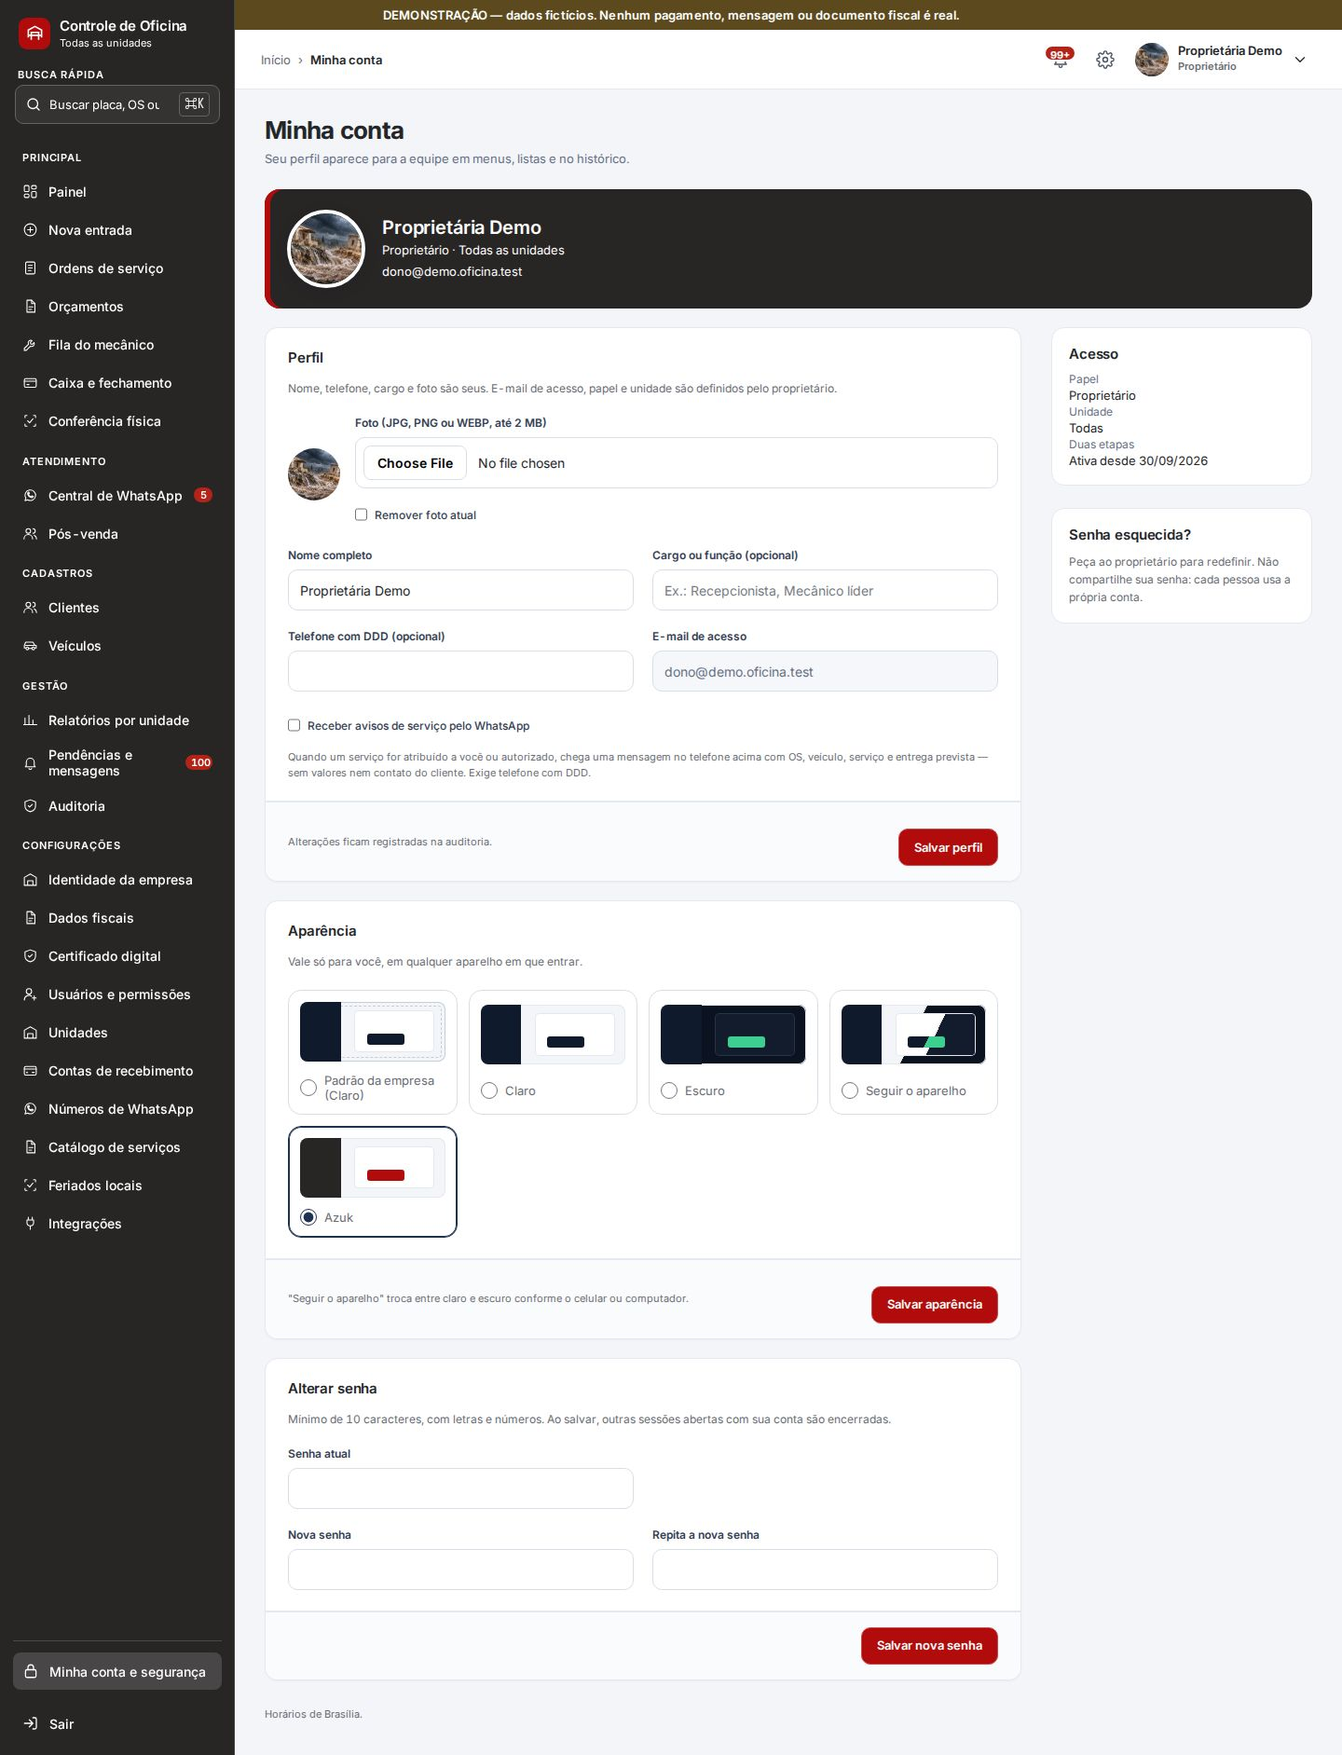
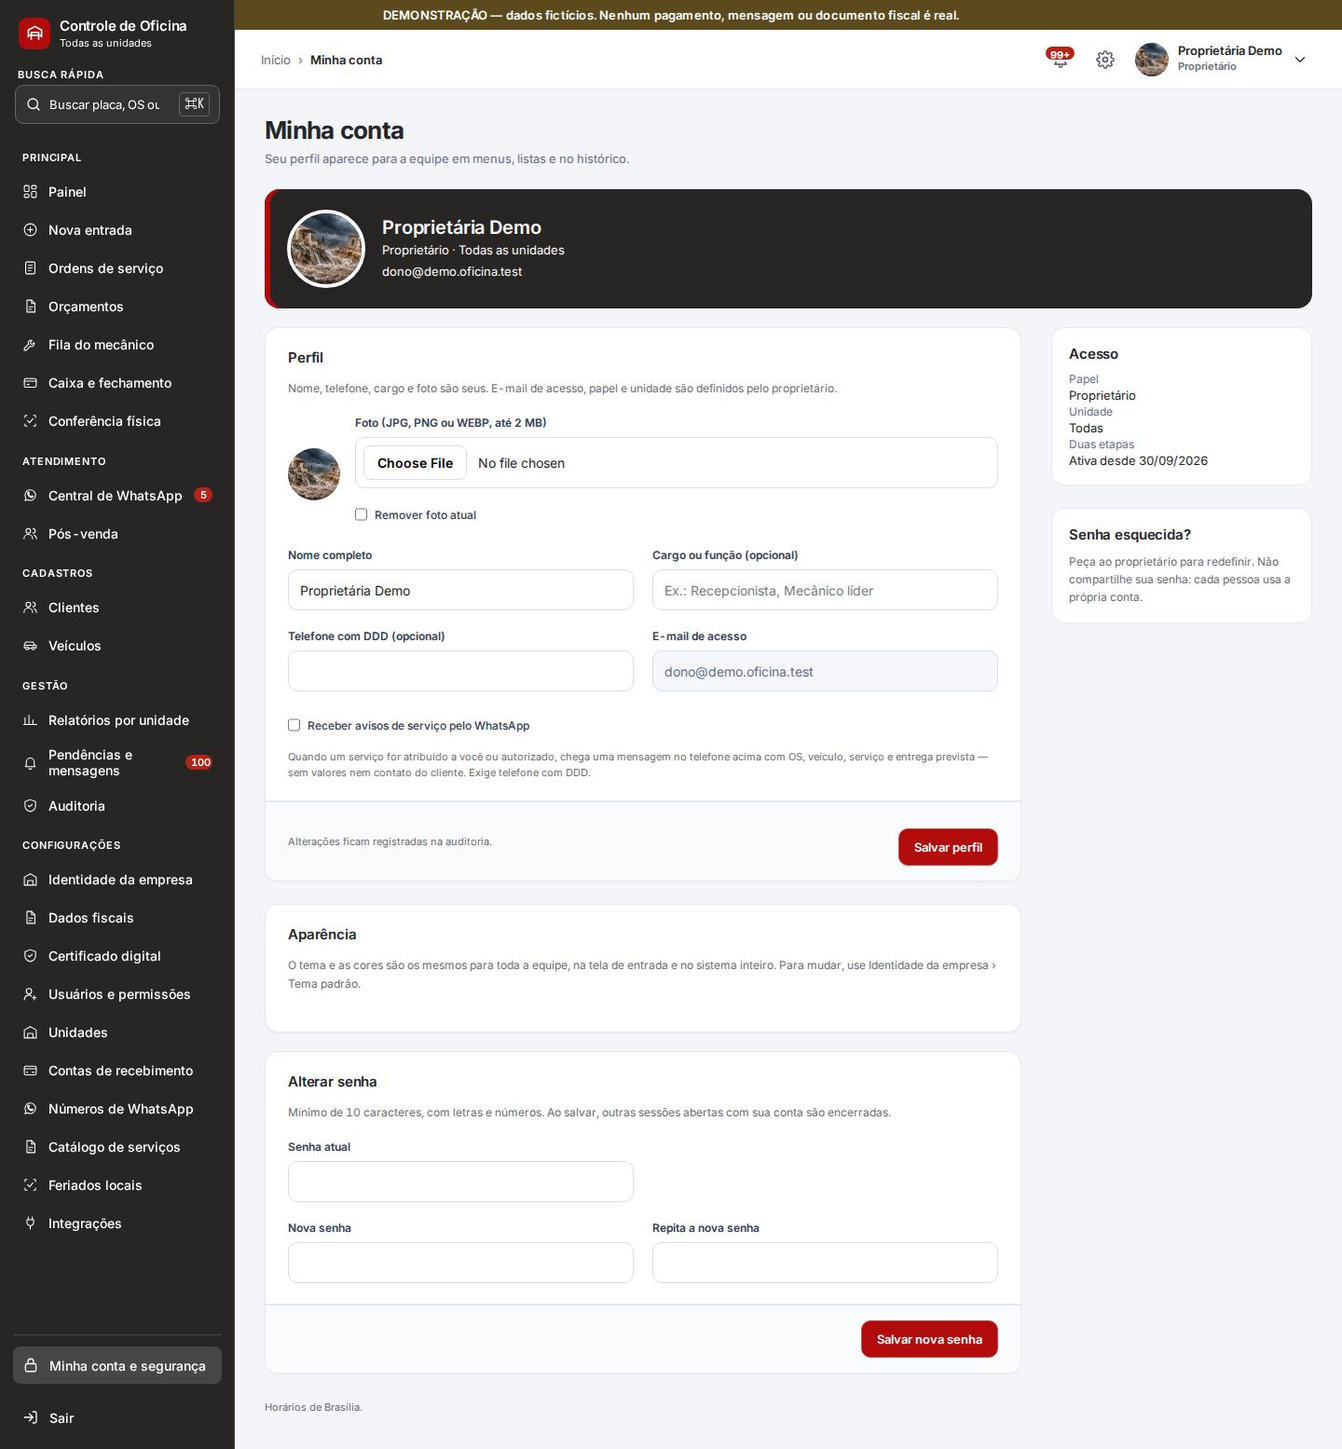
Tema único da empresa na entrada, no sistema e no link do cliente

diff --git a/app/resources/css/app.css b/app/resources/css/app.css
@@ -709,6 +709,12 @@ body.app{--roxo:var(--t-roxo-grafico,#1d3150)}
   --nav-indicador:var(--menu-texto);--nav-icone-ativo:var(--menu-texto);--nav-foco:var(--menu-texto);
   --t-sombra-menu:inset -1px 0 0 color-mix(in srgb,var(--menu-texto) 14%,var(--menu-fundo));
 }
+/* Tela de entrada com o tema da empresa (12/11/2026): o painel lateral usa a cor do menu, como dentro do sistema. */
+:root[style*="--menu-fundo"] .guest-marca{background:var(--menu-fundo);color:var(--menu-texto)}
+:root[style*="--menu-fundo"] .guest-titulo{color:var(--menu-texto)}
+:root[style*="--menu-fundo"] .guest-marca li:before{background:var(--marca)}
+:root[style*="--menu-fundo"] .portal-topo{background:var(--menu-fundo);color:var(--menu-texto)}
+:root[style*="--menu-fundo"] .portal-topo small{color:var(--menu-texto);opacity:.8}
 /* Botão primário com a cor da marca: hover sem mexer no contraste (anel interno com a cor do texto). */
 :root[style*="--marca"]{--primario-hover:var(--marca);--primario-borda:color-mix(in srgb,var(--marca) 75%,var(--marca-contraste))}
 body.app .sidebar{background:var(--nav-bg);color:var(--nav-ink);box-shadow:var(--t-sombra-menu,none)}

diff --git a/app/tests/Feature/AparenciaTest.php b/app/tests/Feature/AparenciaTest.php
@@ -42,24 +42,40 @@ class AparenciaTest extends TestCase
             'cep' => '70.040-010', 'logradouro' => 'Rua das Rodas', 'numero' => '17', 'bairro' => 'Asa Sul', 'cidade' => 'Brasília', 'uf' => 'df'];
     }
 
-    public function test_padrao_e_claro_e_usuario_escolhe_escuro_ou_sistema(): void
+    /** 12/11/2026: tema único da empresa — o mesmo na entrada, para todos os papéis e no link do cliente; sem escolha pessoal. */
+    public function test_tema_da_empresa_vale_para_todos_e_nao_ha_tema_pessoal(): void
     {
-        $this->entrarComo($this->recepcao)->get(route('conta'))->assertOk()->assertSee('data-tema="claro"', false)->assertSee('Seguir o aparelho');
+        $this->entrarComo($this->recepcao)->get(route('conta'))->assertOk()->assertSee('data-tema="claro"', false)->assertSee('Quem escolhe é o dono')
+            ->assertDontSee('Salvar aparência');
+        $this->assertFalse(\Illuminate\Support\Facades\Route::has('conta.tema'));
 
-        foreach (['escuro', 'sistema'] as $tema) {
-            $this->entrarComo($this->recepcao)->put(route('conta.tema'), ['tema' => $tema])->assertSessionHasNoErrors();
-            $this->assertSame($tema, $this->recepcao->fresh()->tema);
-            $this->entrarComo($this->recepcao->fresh())->get(route('conta'))->assertSee('data-tema="'.$tema.'"', false);
+        $this->entrarComo($this->dono)->put(route('empresa.update'), $this->empresa(['tema_padrao' => 'escuro']))->assertSessionHasNoErrors();
+        foreach ([$this->dono, $this->recepcao, $this->mecanico] as $u) {
+            $this->entrarComo($u)->get(route('conta'))->assertSee('data-tema="escuro"', false);
         }
-        $this->assertSame(2, AuditEvent::where('acao', 'tema_usuario_alterado')->count());
-
-        // Mecânico também escolhe o próprio tema; valor fora da lista é recusado e o banco também barra.
-        $this->entrarComo($this->mecanico)->put(route('conta.tema'), ['tema' => 'escuro'])->assertSessionHasNoErrors();
-        $this->entrarComo($this->mecanico)->put(route('conta.tema'), ['tema' => 'rosa'])->assertSessionHasErrors('tema');
-        $this->entrarComo($this->mecanico)->put(route('conta.tema'), ['tema' => 'tema:999'])->assertSessionHasErrors('tema');
-        $this->assertSame('escuro', $this->mecanico->fresh()->tema);
+        // Coluna antiga preenchida não muda mais nada.
+        $this->recepcao->forceFill(['tema' => 'claro'])->save();
+        $this->entrarComo($this->recepcao->fresh())->get(route('conta'))->assertSee('data-tema="escuro"', false);
+        $this->entrarComo($this->dono)->get(route('conta'))->assertSee('Identidade da empresa › Tema padrão');
         $this->expectException(QueryException::class);
         DB::table('users')->where('id', $this->mecanico->id)->update(['tema' => 'qualquer"><script>']);
+    }
+
+    public function test_migracao_leva_o_tema_pessoal_do_dono_para_a_empresa(): void
+    {
+        $this->entrarComo($this->dono)->post(route('temas.store'), $this->tema())->assertSessionHasNoErrors();
+        $tema = Tema::sole();
+        Empresa::atual()->forceFill(['tema_padrao' => null])->save();
+        $this->dono->forceFill(['tema' => $tema->chave()])->save();
+        $this->recepcao->forceFill(['tema' => 'escuro'])->save();
+
+        (require database_path('migrations/2026_11_12_000200_tema_unico_da_empresa.php'))->up();
+
+        $this->assertSame($tema->chave(), Empresa::atual()->fresh()->tema_padrao);
+        $this->assertSame(0, User::whereNotNull('tema')->count());
+        auth()->logout();
+        $this->flushSession();
+        $this->get(route('login'))->assertSee('--marca:#ffd400', false);
     }
 
     public function test_somente_proprietario_cria_tema_e_cores_vao_com_texto_legivel(): void
@@ -78,8 +94,8 @@ class AparenciaTest extends TestCase
         $this->assertSame(['escuro', '#ffd400', '#000000'], [$tema->base, $tema->cor_marca, $tema->cor_menu]);
         $this->assertSame(1, AuditEvent::where('acao', 'tema_criado')->count());
 
-        $this->entrarComo($this->recepcao)->put(route('conta.tema'), ['tema' => $tema->chave()])->assertSessionHasNoErrors();
-        $this->entrarComo($this->recepcao->fresh())->get(route('conta'))->assertOk()
+        $this->entrarComo($this->dono)->put(route('empresa.update'), $this->empresa(['tema_padrao' => $tema->chave()]))->assertSessionHasNoErrors();
+        $this->entrarComo($this->recepcao)->get(route('conta'))->assertOk()
             ->assertSee('data-tema="escuro"', false)
             // amarelo pede texto escuro; preto pede texto branco
             ->assertSee('--marca:#ffd400;--marca-contraste:#000000;--menu-fundo:#000000;--menu-texto:#ffffff', false);
@@ -89,21 +105,18 @@ class AparenciaTest extends TestCase
         $this->entrarComo($this->recepcao)->delete(route('temas.destroy', $tema))->assertForbidden();
     }
 
-    public function test_excluir_tema_devolve_usuarios_e_empresa_ao_padrao(): void
+    public function test_excluir_tema_devolve_a_empresa_ao_padrao(): void
     {
         $this->entrarComo($this->dono)->post(route('temas.store'), $this->tema())->assertSessionHasNoErrors();
         $tema = Tema::sole();
         $this->entrarComo($this->dono)->put(route('empresa.update'), $this->empresa(['tema_padrao' => $tema->chave()]))->assertSessionHasNoErrors();
-        $this->recepcao->forceFill(['tema' => $tema->chave()])->save();
 
-        // Usuário sem escolha segue o padrão da empresa.
         $this->entrarComo($this->mecanico)->get(route('conta'))->assertSee('data-tema="escuro"', false)->assertSee('--menu-fundo:#000000', false);
 
         $this->entrarComo($this->dono)->delete(route('temas.destroy', $tema))->assertSessionHasNoErrors();
-        $this->assertNull($this->recepcao->fresh()->tema);
         $this->assertNull(Empresa::atual()->tema_padrao);
         $this->assertSame(1, AuditEvent::where('acao', 'tema_excluido')->count());
-        $this->entrarComo($this->recepcao->fresh())->get(route('conta'))->assertSee('data-tema="claro"', false)->assertDontSee('--menu-fundo:', false);
+        $this->entrarComo($this->recepcao)->get(route('conta'))->assertSee('data-tema="claro"', false)->assertDontSee('--menu-fundo:', false);
     }
 
     public function test_tema_padrao_da_empresa_vale_na_tela_de_entrada(): void

diff --git a/app/resources/views/conta/show.blade.php b/app/resources/views/conta/show.blade.php
@@ -37,30 +37,13 @@
                 <div class="form-footer"><span class="hint">Alterações ficam registradas na auditoria.</span><button class="button primary" type="submit">Salvar perfil</button></div>
             </form>
 
-            @php($empresaAtual = \App\Models\Empresa::atual())
-            @php($padraoEmpresa = \App\Support\Aparencia::opcoes()[$empresaAtual->tema_padrao ?? 'claro'] ?? 'Claro')
-            <form method="POST" action="{{ route('conta.tema') }}" class="form-panel" id="aparencia" style="margin-bottom:20px">
-                @csrf @method('PUT')
+            <section class="form-panel" id="aparencia" style="margin-bottom:20px">
                 <section class="form-section">
                     <h2>Aparência</h2>
-                    <p class="section-copy">Vale só para você, em qualquer aparelho em que entrar.</p>
-                    <fieldset class="tema-opcoes">
-                        <legend class="sr-only">Tema</legend>
-                        @foreach (['' => 'Padrão da empresa ('.$padraoEmpresa.')'] + \App\Support\Aparencia::opcoes() as $valor => $nome)
-                            {{-- "Padrão da empresa" mostra a miniatura do tema que a empresa usa de fato. --}}
-                            @php($chaveAmostra = $valor ?: ($empresaAtual->tema_padrao ?? 'claro'))
-                            @php($temaCustom = str_starts_with($chaveAmostra, 'tema:') ? \App\Models\Tema::find((int) substr($chaveAmostra, 5)) : null)
-                            <label class="tema-opcao">
-                                <input type="radio" name="tema" value="{{ $valor }}" @checked((string) old('tema', $usuario->tema) === (string) $valor)>
-                                <span class="tema-amostra tema-amostra-{{ $temaCustom?->base ?? (isset(\App\Support\Aparencia::PADROES[$chaveAmostra]) ? $chaveAmostra : 'claro') }}{{ $valor === '' ? ' tema-amostra-padrao' : '' }}" @if ($temaCustom) style="--amostra-menu:{{ $temaCustom->cor_menu }};--amostra-marca:{{ $temaCustom->cor_marca }}" @endif aria-hidden="true"><i></i><b></b></span>
-                                <span>{{ $nome }}</span>
-                            </label>
-                        @endforeach
-                    </fieldset>
-                    @error('tema')<span class="field-error">{{ $message }}</span>@enderror
+                    <p class="section-copy">O tema e as cores são os mesmos para toda a equipe, na tela de entrada e no sistema inteiro.
+                        @can('configurar') Para mudar, use <a href="{{ route('empresa.edit') }}">Identidade da empresa › Tema padrão</a>.@else Quem escolhe é o dono.@endcan</p>
                 </section>
-                <div class="form-footer"><span class="hint">"Seguir o aparelho" troca entre claro e escuro conforme o celular ou computador.</span><button class="button primary" type="submit">Salvar aparência</button></div>
-            </form>
+            </section>
 
             <form method="POST" action="{{ route('conta.senha') }}" class="form-panel" id="senha">
                 @csrf @method('PUT')

diff --git a/app/app/Support/Aparencia.php b/app/app/Support/Aparencia.php
@@ -4,10 +4,9 @@ namespace App\Support;
 
 use App\Models\Empresa;
 use App\Models\Tema;
-use App\Models\User;
 
 /**
- * Resolve o tema da tela: escolha do usuário > padrão da empresa > claro.
+ * Tema único da empresa (12/11/2026, pedido do dono): o mesmo na entrada, no sistema todo e no link do cliente; sem escolha pessoal.
  * Saída vai para <html data-tema="claro|escuro|sistema" style="--marca…">; as cores do tema personalizado
  * vêm com a cor de texto calculada (preto ou branco, o de maior contraste WCAG) para nunca ficar ilegível.
  */
@@ -16,16 +15,11 @@ final class Aparencia
     public const PADROES = ['claro' => 'Claro', 'escuro' => 'Escuro', 'sistema' => 'Seguir o aparelho'];
 
     /** @return array{modo: string, estilo: string, chave: string} */
-    public static function resolver(?User $usuario = null, ?Empresa $empresa = null): array
+    public static function resolver(?Empresa $empresa = null): array
     {
-        $empresa ??= Empresa::atual();
-        foreach ([$usuario?->tema, $empresa->tema_padrao] as $chave) {
-            if ($chave && ($r = self::deChave($chave))) {
-                return $r;
-            }
-        }
+        $chave = ($empresa ?? Empresa::atual())->tema_padrao;
 
-        return ['modo' => 'claro', 'estilo' => '', 'chave' => 'claro'];
+        return ($chave ? self::deChave($chave) : null) ?? ['modo' => 'claro', 'estilo' => '', 'chave' => 'claro'];
     }
 
     /** Opções válidas para os seletores (padrões + personalizados). @return array<string, string> */

diff --git a/app/routes/web.php b/app/routes/web.php
@@ -207,13 +207,12 @@ Route::middleware(['auth', 'dois-fatores'])->group(function () {
         Route::post('/', 'store')->name('certificado.store');
         Route::delete('/', 'destroy')->name('certificado.destroy');
     });
-    // Aparência (31/10/2026): temas personalizados só pelo proprietário; cada usuário escolhe o próprio tema.
+    // Aparência: temas personalizados só pelo proprietário; o tema padrão da empresa vale para todos (12/11/2026).
     Route::middleware(['can:configurar', 'password.confirm', 'throttle:30,1'])->prefix('configuracoes/temas')->controller(\App\Http\Controllers\TemaController::class)->group(function () {
         Route::post('/', 'store')->name('temas.store');
         Route::put('/{tema}', 'update')->name('temas.update');
         Route::delete('/{tema}', 'destroy')->name('temas.destroy');
     });
-    Route::put('/conta/tema', [\App\Http\Controllers\ContaController::class, 'tema'])->middleware('throttle:30,1')->name('conta.tema');
     Route::put('/ordens/{ordem}/chassi', [\App\Http\Controllers\VeiculoController::class, 'chassi'])->middleware('throttle:30,1')->name('ordens.chassi');
     Route::post('/ordens/{ordem}/vendedor', [\App\Http\Controllers\OsImpressaController::class, 'vendedor'])->middleware('throttle:30,1')->name('ordens.vendedor');
     Route::get('/ordens/{ordem}/impressao', [\App\Http\Controllers\OsImpressaController::class, 'interna'])->middleware('throttle:60,1')->name('ordens.impressao');

diff --git a/app/app/Http/Controllers/ContaController.php b/app/app/Http/Controllers/ContaController.php
@@ -8,9 +8,7 @@ use Illuminate\Support\Facades\Auth;
 use Illuminate\Support\Facades\Hash;
 use Illuminate\Support\Facades\Storage;
 use App\Models\User;
-use App\Support\Aparencia;
 use App\Support\Normaliza;
-use Illuminate\Validation\Rule;
 use Illuminate\Validation\Rules\Password;
 use Illuminate\Validation\ValidationException;
 
@@ -53,18 +51,6 @@ class ContaController extends Controller
         Auditoria::registrar('perfil_alterado', $user, $antes, $user->only('name', 'telefone', 'cargo', 'receber_avisos_whatsapp') + ['foto' => (bool) $user->foto_caminho], ator: $user);
 
         return redirect()->route('conta')->with('sucesso', 'Perfil atualizado.');
-    }
-
-    /** Tema do próprio usuário; vazio segue o padrão da empresa. */
-    public function tema(Request $request)
-    {
-        $dados = $request->validate(['tema' => ['nullable', Rule::in(array_keys(Aparencia::opcoes()))]], [], ['tema' => 'tema']);
-        $user = $request->user();
-        $antes = $user->only('tema');
-        $user->forceFill(['tema' => $dados['tema'] ?? null])->save();
-        Auditoria::registrar('tema_usuario_alterado', $user, $antes, $user->only('tema'), ator: $user);
-
-        return redirect()->to(route('conta').'#aparencia')->with('sucesso', 'Tema atualizado.');
     }
 
     /** Foto de qualquer usuário ativo da empresa para quem está autenticado (aparece em menus e listas). */

diff --git a/app/database/migrations/2026_11_12_000200_tema_unico_da_empresa.php b/app/database/migrations/2026_11_12_000200_tema_unico_da_empresa.php
@@ -1,0 +1,25 @@
+<?php
+
+use Illuminate\Database\Migrations\Migration;
+use Illuminate\Support\Facades\DB;
+
+/**
+ * Tema único (12/11/2026): a escolha pessoal deixa de existir. Se a empresa não tinha tema padrão,
+ * herda o tema que o proprietário escolheu para si (o mais recente), para a cor escolhida não se perder.
+ */
+return new class extends Migration
+{
+    public function up(): void
+    {
+        $empresa = DB::table('empresas')->orderBy('id')->first();
+        if ($empresa && ! $empresa->tema_padrao) {
+            $tema = DB::table('users')->where('papel', 'proprietario')->where('ativo', true)->whereNotNull('tema')->orderByDesc('updated_at')->value('tema');
+            if ($tema) {
+                DB::table('empresas')->where('id', $empresa->id)->update(['tema_padrao' => $tema]);
+            }
+        }
+        DB::table('users')->whereNotNull('tema')->update(['tema' => null]); // ponytail: coluna fica sem uso; remover numa limpeza futura
+    }
+
+    public function down(): void {}
+};

diff --git a/app/resources/views/configuracoes/empresa.blade.php b/app/resources/views/configuracoes/empresa.blade.php
@@ -116,7 +116,7 @@
             </section>
         </div>
         <aside class="form-aside">
-            <section class="helper"><h2>Tema</h2><p>O tema padrão vale para quem não escolheu outro em Minha conta. Cada pessoa pode trocar o próprio tema a qualquer momento.</p></section>
+            <section class="helper"><h2>Tema</h2><p>O tema padrão vale para toda a equipe: na tela de entrada, no sistema inteiro e no link que o cliente recebe.</p></section>
             <section class="helper"><h2>Onde aparece</h2><p>Nome do sistema, logo e descrição: menu e tela de entrada. Na OS impressa (e na versão do cliente pelo link): logo, nome fantasia, CNPJ, telefone e endereço. A OS impressa não é documento fiscal.</p></section>
             <section class="helper"><h2>CNPJ</h2><p>Os dígitos verificadores são conferidos. O formato alfanumérico (novas inscrições a partir de julho/2026) também é aceito.</p></section>
         </aside>

diff --git a/app/resources/views/layouts/app.blade.php b/app/resources/views/layouts/app.blade.php
@@ -1,7 +1,7 @@
 @php($usuario = auth()->user())
 @php(['total' => $totalNotificacoes, 'whatsapp' => $whatsappSemResposta, 'itens' => $notificacoes] = app(\App\Services\Notificacoes::class)->abertas($usuario))
 @php($empresaAtual = \App\Models\Empresa::atual())
-@php($aparencia = \App\Support\Aparencia::resolver($usuario, $empresaAtual))
+@php($aparencia = \App\Support\Aparencia::resolver($empresaAtual))
 <!doctype html>
 <html lang="pt-BR" data-tema="{{ $aparencia['modo'] }}" @if ($aparencia['estilo']) style="{{ $aparencia['estilo'] }}" @endif>
 <head>

diff --git a/app/resources/views/layouts/cliente.blade.php b/app/resources/views/layouts/cliente.blade.php
@@ -1,6 +1,7 @@
 @php($empresaAtual = \App\Models\Empresa::atual())
+@php($aparencia = \App\Support\Aparencia::resolver($empresaAtual))
 <!doctype html>
-<html lang="pt-BR">
+<html lang="pt-BR" data-tema="{{ $aparencia['modo'] }}" @if ($aparencia['estilo']) style="{{ $aparencia['estilo'] }}" @endif>
 <head>
     <meta charset="utf-8">
     <meta name="viewport" content="width=device-width,initial-scale=1,viewport-fit=cover">

diff --git a/app/resources/views/layouts/guest.blade.php b/app/resources/views/layouts/guest.blade.php
@@ -1,5 +1,5 @@
 @php($empresaAtual = \App\Models\Empresa::atual())
-@php($aparencia = \App\Support\Aparencia::resolver(null, $empresaAtual))
+@php($aparencia = \App\Support\Aparencia::resolver($empresaAtual))
 <!doctype html>
 <html lang="pt-BR" data-tema="{{ $aparencia['modo'] }}" @if ($aparencia['estilo']) style="{{ $aparencia['estilo'] }}" @endif>
 <head>

diff --git a/docs/manual/MANUAL.md b/docs/manual/MANUAL.md
@@ -880,10 +880,10 @@ Menu **Identidade da empresa** (ou a engrenagem no alto).
 
 ![Identidade da empresa: sistema, dados da empresa, endereço, logo, temas e dados por unidade](imagens/empresa.jpg)
 
-- **Sistema:** nome do sistema, tema padrão e uma descrição curta (aparece na tela de entrada).
+- **Sistema:** nome do sistema, **tema padrão** e uma descrição curta (aparece na tela de entrada). O tema vale para **toda a equipe**: na tela de entrada, no sistema inteiro e no link que o cliente recebe.
 - **Empresa:** razão social, nome fantasia, **CNPJ** (os dígitos são conferidos; o formato alfanumérico também é aceito), telefone, e-mail e cor principal.
 - **Endereço** e **Logo**.
-- **Temas:** crie temas personalizados de cores. Cada pessoa pode escolher o próprio tema em Minha conta.
+- **Temas:** crie temas personalizados de cores (cor da marca e cor do menu) e escolha um deles em **Tema padrão**.
 - **Dados próprios por unidade:** unidades com CNPJ ou endereço próprios usam esses dados na OS impressa.
 
 Esses dados aparecem no menu, na tela de entrada e na **OS impressa** (que não é documento fiscal).
@@ -985,7 +985,7 @@ Menu **Minha conta e segurança** (vale para todo mundo).
 ![Minha conta: perfil, aparência e alterar senha](imagens/conta.jpg)
 
 - **Perfil:** nome, cargo, telefone e foto. E-mail, papel e unidade são definidos pelo dono. Com telefone preenchido, você pode receber **avisos de serviço** pelo WhatsApp (OS, veículo, serviço e entrega prevista, **sem valores nem contato do cliente**).
-- **Aparência:** tema só para você.
+- **Aparência:** o tema é o mesmo para todos; quem escolhe é o dono, em Identidade da empresa.
 - **Alterar senha:** senha atual, nova senha e confirmação (mínimo de 10 caracteres, com letras e números). Ao salvar, suas outras sessões abertas são encerradas.
 
 ### 10.13 Dados fiscais
